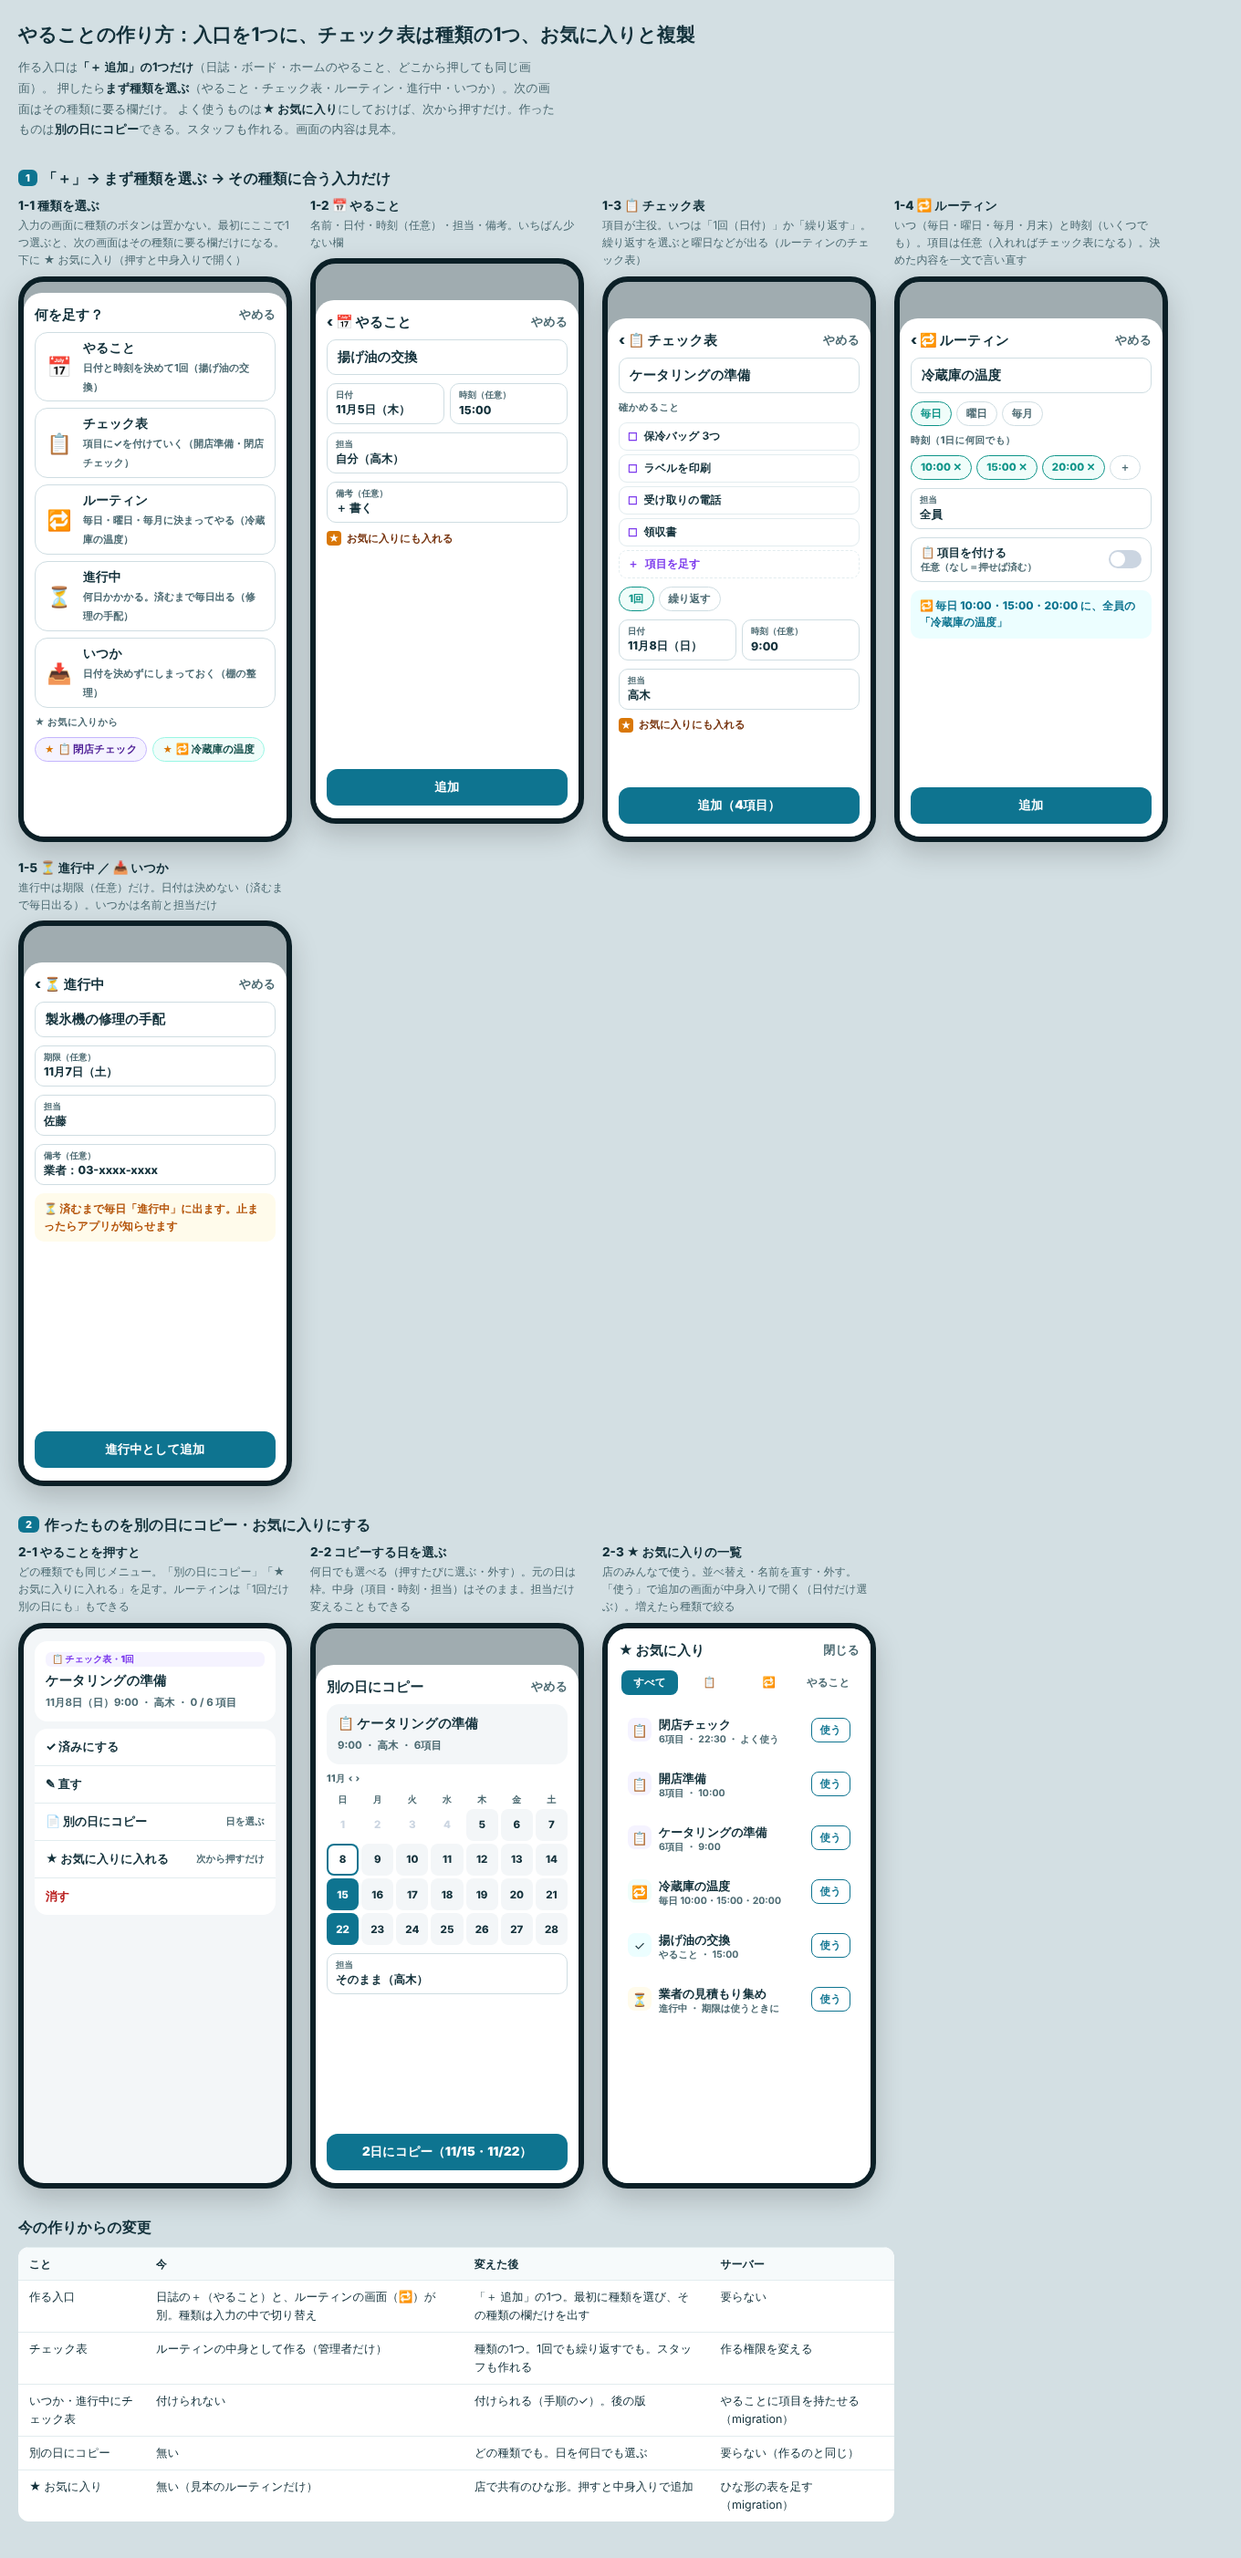
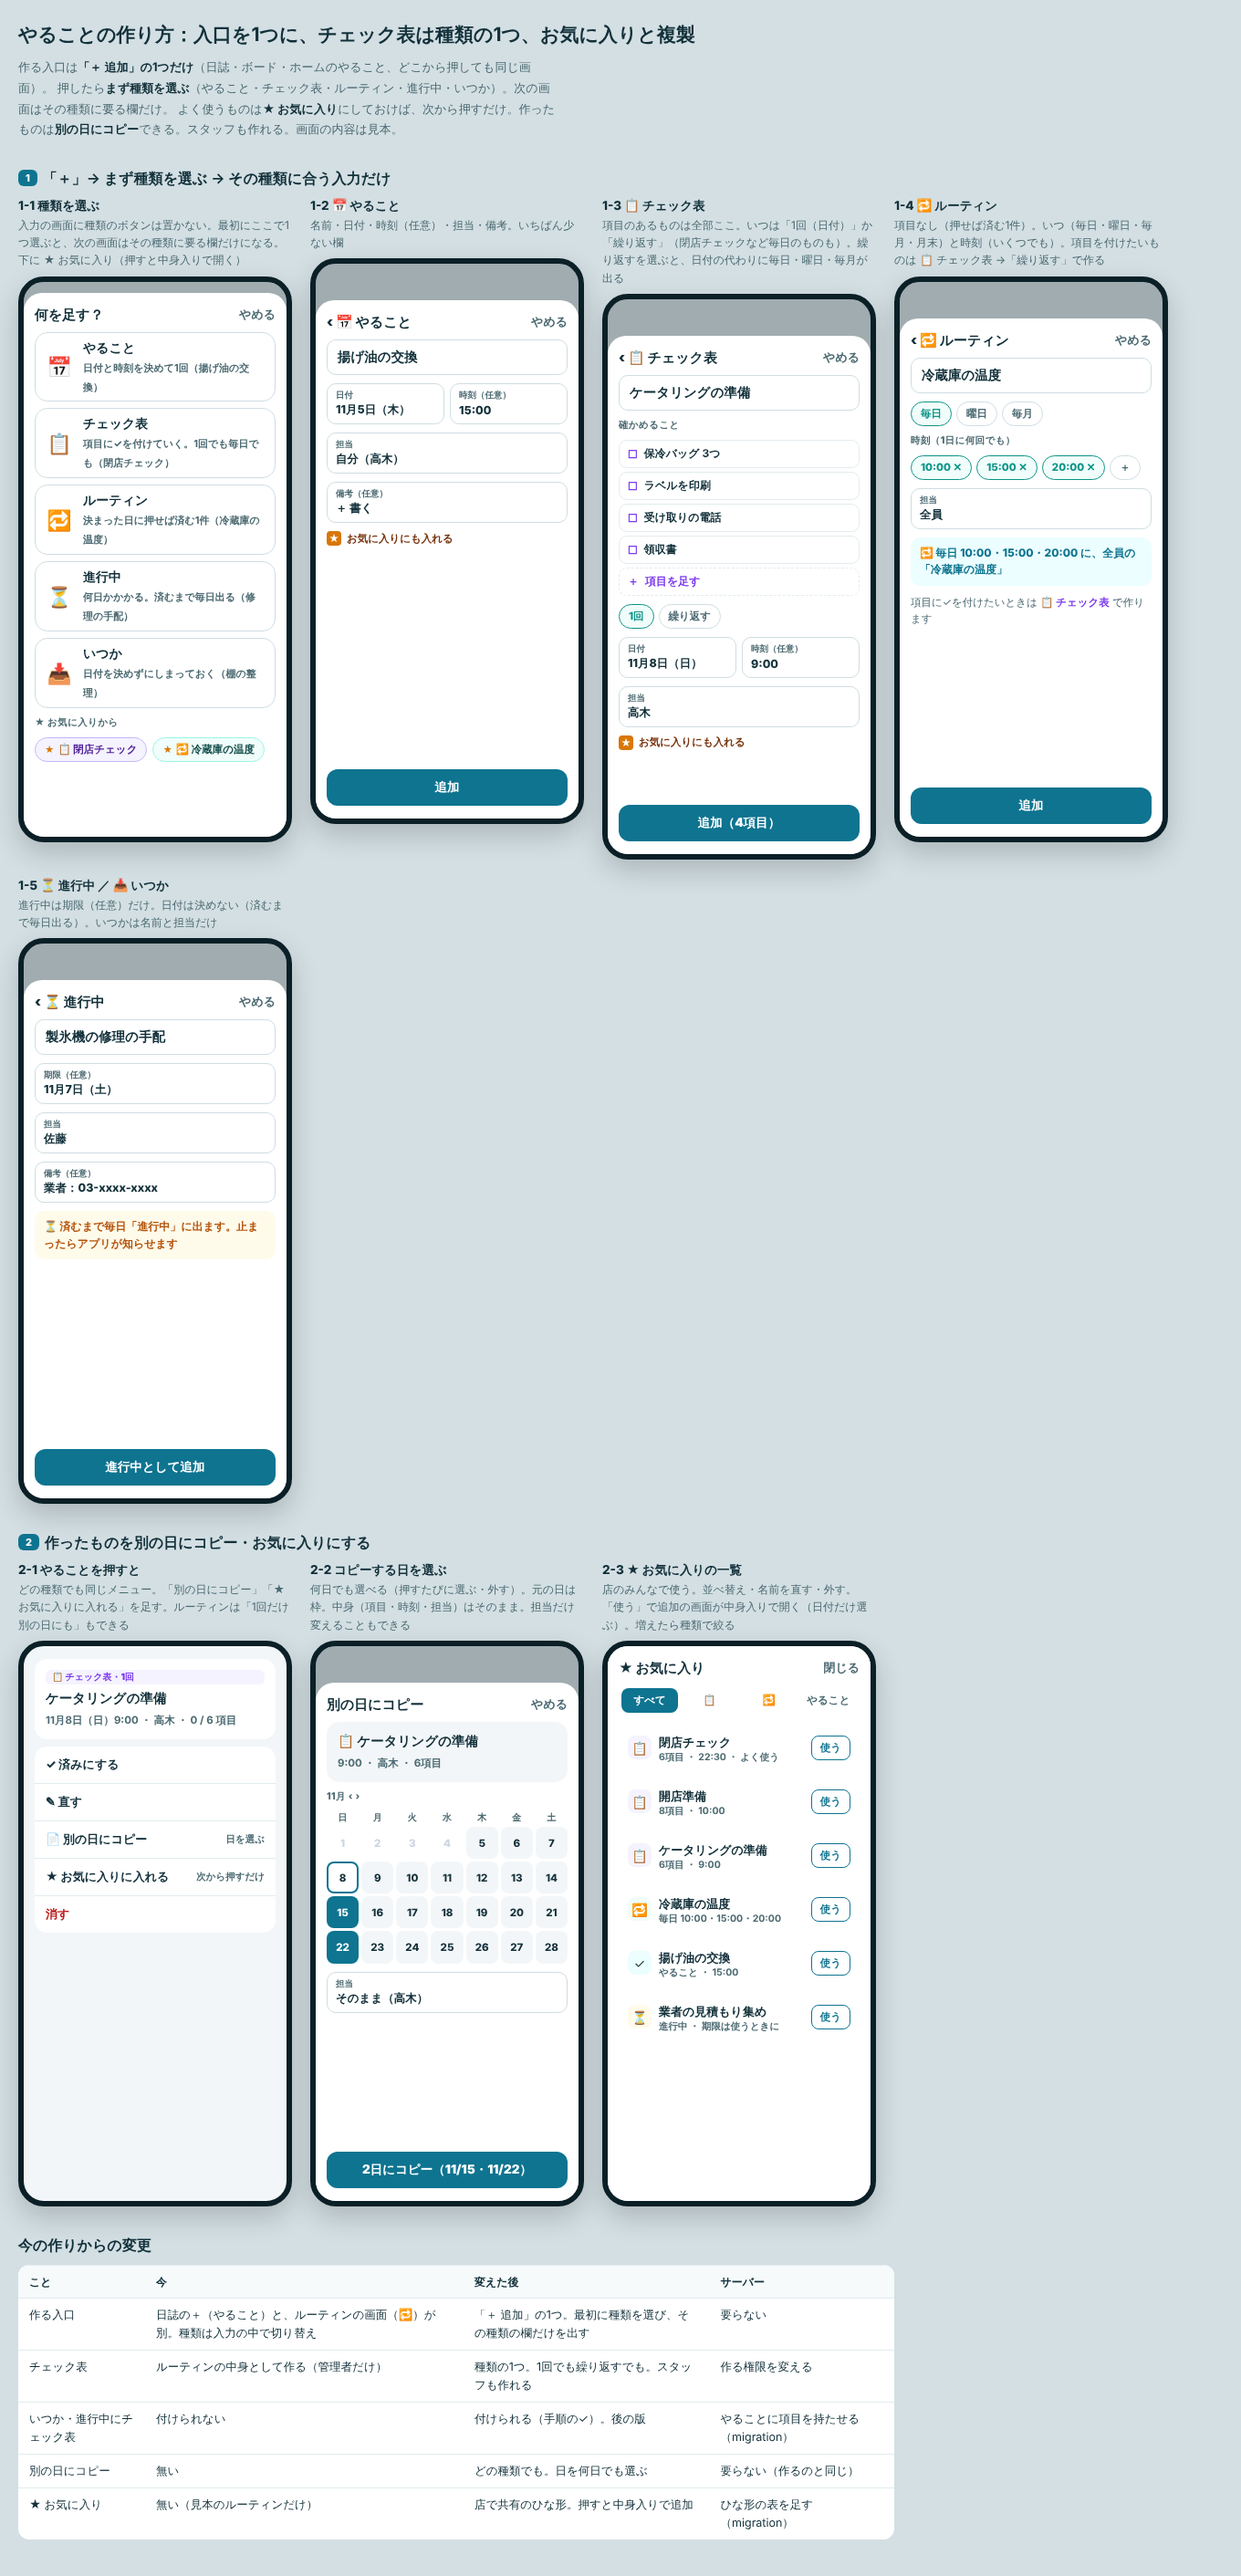
モック: 項目のあるものはチェック表にまとめ、ルーティンは項目なしだけ（v0.188.5）
Claude-Session: https://claude.ai/code/session_014RsRXjJi3czk5dAz1baiDV

diff --git a/docs/mocks/task-create.html b/docs/mocks/task-create.html
@@ -30,6 +30,7 @@
   .fav i { font-style:normal; font-size:10px; color:var(--star); }
   .fav.cl { border-color:#c4b5fd; background:var(--clw); color:#4c1d95; } .fav.rt { border-color:#99f6e4; background:var(--rtw); color:#134e4a; }
   .pick { display:grid; gap:7px; }
+  .sub2 { font-size:11.5px; color:var(--muted); line-height:1.6; } .sub2 b { color:var(--cl); }
   .pk { display:flex; gap:10px; align-items:center; border:1.5px solid var(--line2); border-radius:14px; padding:7px 10px; }
   .pk em { font-style:normal; font-size:22px; width:32px; text-align:center; flex:none; }
   .pk b { font-size:14px; display:block; } .pk small { font-size:11px; color:var(--muted); font-weight:700; line-height:1.45; }
@@ -99,8 +100,8 @@
         <div class="sh-h">何を足す？<i>やめる</i></div>
         <div class="pick">
           <div class="pk"><em>📅</em><span><b>やること</b><small>日付と時刻を決めて1回（揚げ油の交換）</small></span></div>
-          <div class="pk"><em>📋</em><span><b>チェック表</b><small>項目に✓を付けていく（開店準備・閉店チェック）</small></span></div>
-          <div class="pk"><em>🔁</em><span><b>ルーティン</b><small>毎日・曜日・毎月に決まってやる（冷蔵庫の温度）</small></span></div>
+          <div class="pk"><em>📋</em><span><b>チェック表</b><small>項目に✓を付けていく。1回でも毎日でも（閉店チェック）</small></span></div>
+          <div class="pk"><em>🔁</em><span><b>ルーティン</b><small>決まった日に押せば済む1件（冷蔵庫の温度）</small></span></div>
           <div class="pk"><em>⏳</em><span><b>進行中</b><small>何日かかかる。済むまで毎日出る（修理の手配）</small></span></div>
           <div class="pk"><em>📥</em><span><b>いつか</b><small>日付を決めずにしまっておく（棚の整理）</small></span></div>
         </div>
@@ -123,7 +124,7 @@
     </div>
 
     <div class="col">
-      <div class="cap">1-3 📋 チェック表<small>項目が主役。いつは「1回（日付）」か「繰り返す」。繰り返すを選ぶと曜日などが出る（ルーティンのチェック表）</small></div>
+      <div class="cap">1-3 📋 チェック表<small>項目のあるものは全部ここ。いつは「1回（日付）」か「繰り返す」（閉店チェックなど毎日のものも）。繰り返すを選ぶと、日付の代わりに毎日・曜日・毎月が出る</small></div>
       <div class="phone"><div class="dim"></div><div class="sheet">
         <div class="sh-h"><span>‹ 📋 チェック表</span><i>やめる</i></div>
         <div class="in">ケータリングの準備</div>
@@ -138,7 +139,7 @@
     </div>
 
     <div class="col">
-      <div class="cap">1-4 🔁 ルーティン<small>いつ（毎日・曜日・毎月・月末）と時刻（いくつでも）。項目は任意（入れればチェック表になる）。決めた内容を一文で言い直す</small></div>
+      <div class="cap">1-4 🔁 ルーティン<small>項目なし（押せば済む1件）。いつ（毎日・曜日・毎月・月末）と時刻（いくつでも）。項目を付けたいものは 📋 チェック表 →「繰り返す」で作る</small></div>
       <div class="phone"><div class="dim"></div><div class="sheet">
         <div class="sh-h"><span>‹ 🔁 ルーティン</span><i>やめる</i></div>
         <div class="in">冷蔵庫の温度</div>
@@ -146,8 +147,8 @@
         <div class="lbl">時刻（1日に何回でも）</div>
         <div class="rep"><span class="on">10:00 ✕</span><span class="on">15:00 ✕</span><span class="on">20:00 ✕</span><span>＋</span></div>
         <div class="field"><small>担当</small>全員</div>
-        <div class="tog"><span>📋 項目を付ける<small>任意（なし＝押せば済む）</small></span><span class="sw"></span></div>
         <div class="sent">🔁 毎日 10:00・15:00・20:00 に、全員の「冷蔵庫の温度」</div>
+        <p class="sub2">項目に✓を付けたいときは <b>📋 チェック表</b> で作ります</p>
         <div class="foot"><div class="btn">追加</div></div>
       </div></div>
     </div>
